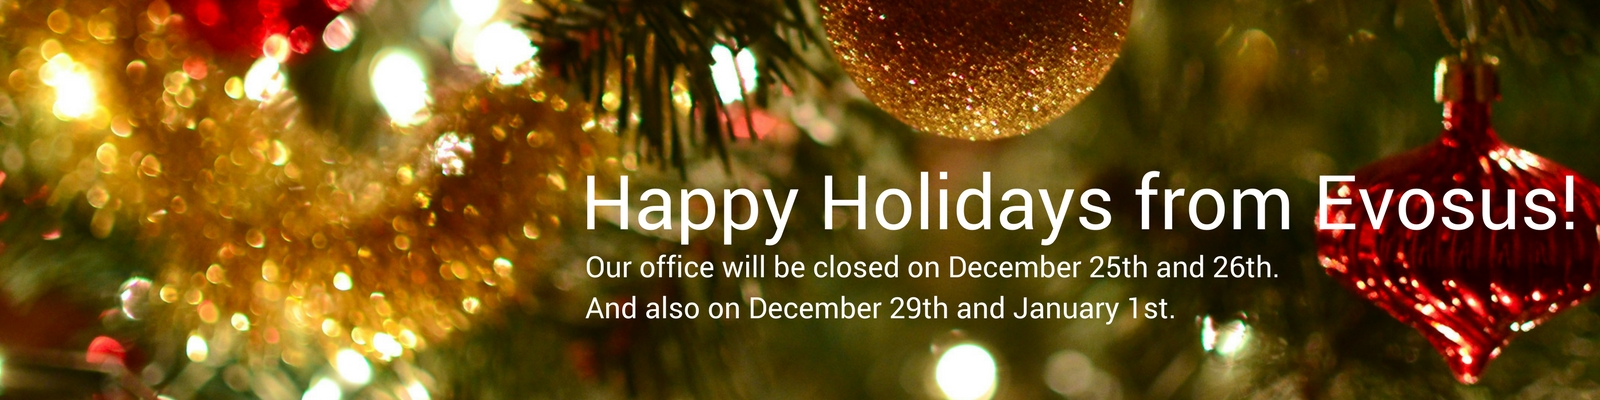
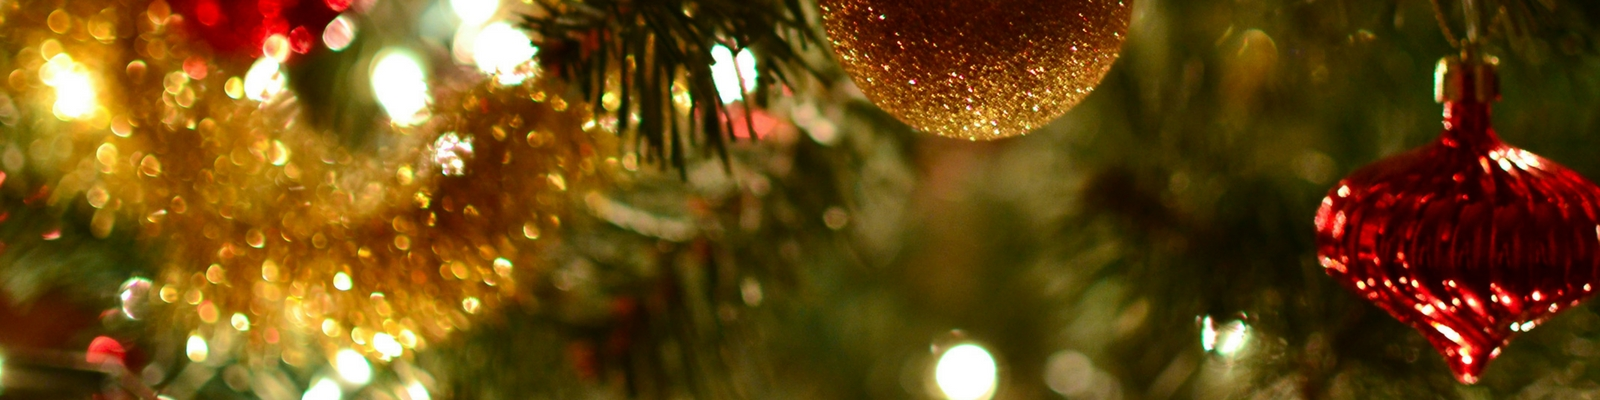
ES-520
ES-520

Changed region(s): [[0.3438, 0.42, 1.0, 0.69], [0.3438, 0.75, 0.75, 0.81]]

diff --git a/main/PortalHome.html b/main/PortalHome.html
@@ -2,7 +2,9 @@
 <div id="main-carousel" class="carousel carousel-slider center" data-indicators="true">
   <div class="carousel-item white-text bg-holidays">
     <div class="container">
-     
+     <h1 class="header carousel-header right-align">Happy Holidays from Evosus!</h1>
+      <p class="white-text right-align">Our office will be closed on December 25<sup>th and 26<sup>th</sup>.</p>
+      <p class="white-text right-align">and also on December 29<sup>th</sup> and January 1<sup>st</sup>.</p>
     </div>
   </div>
   <div class="carousel-item amber white-text bg-computer">
